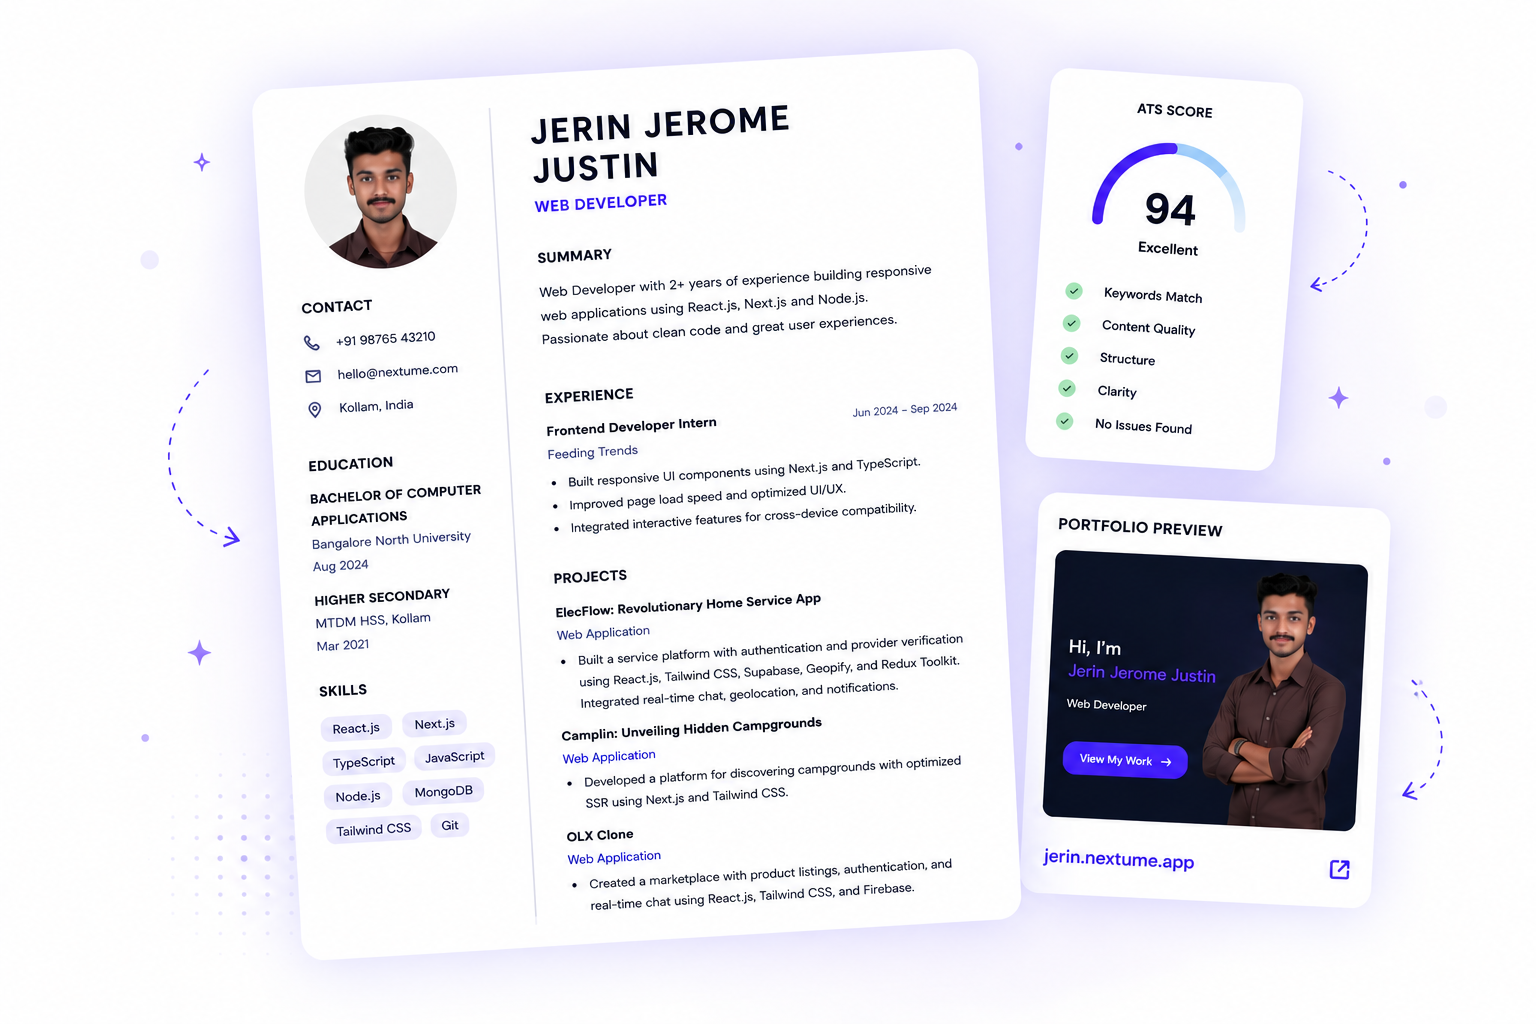
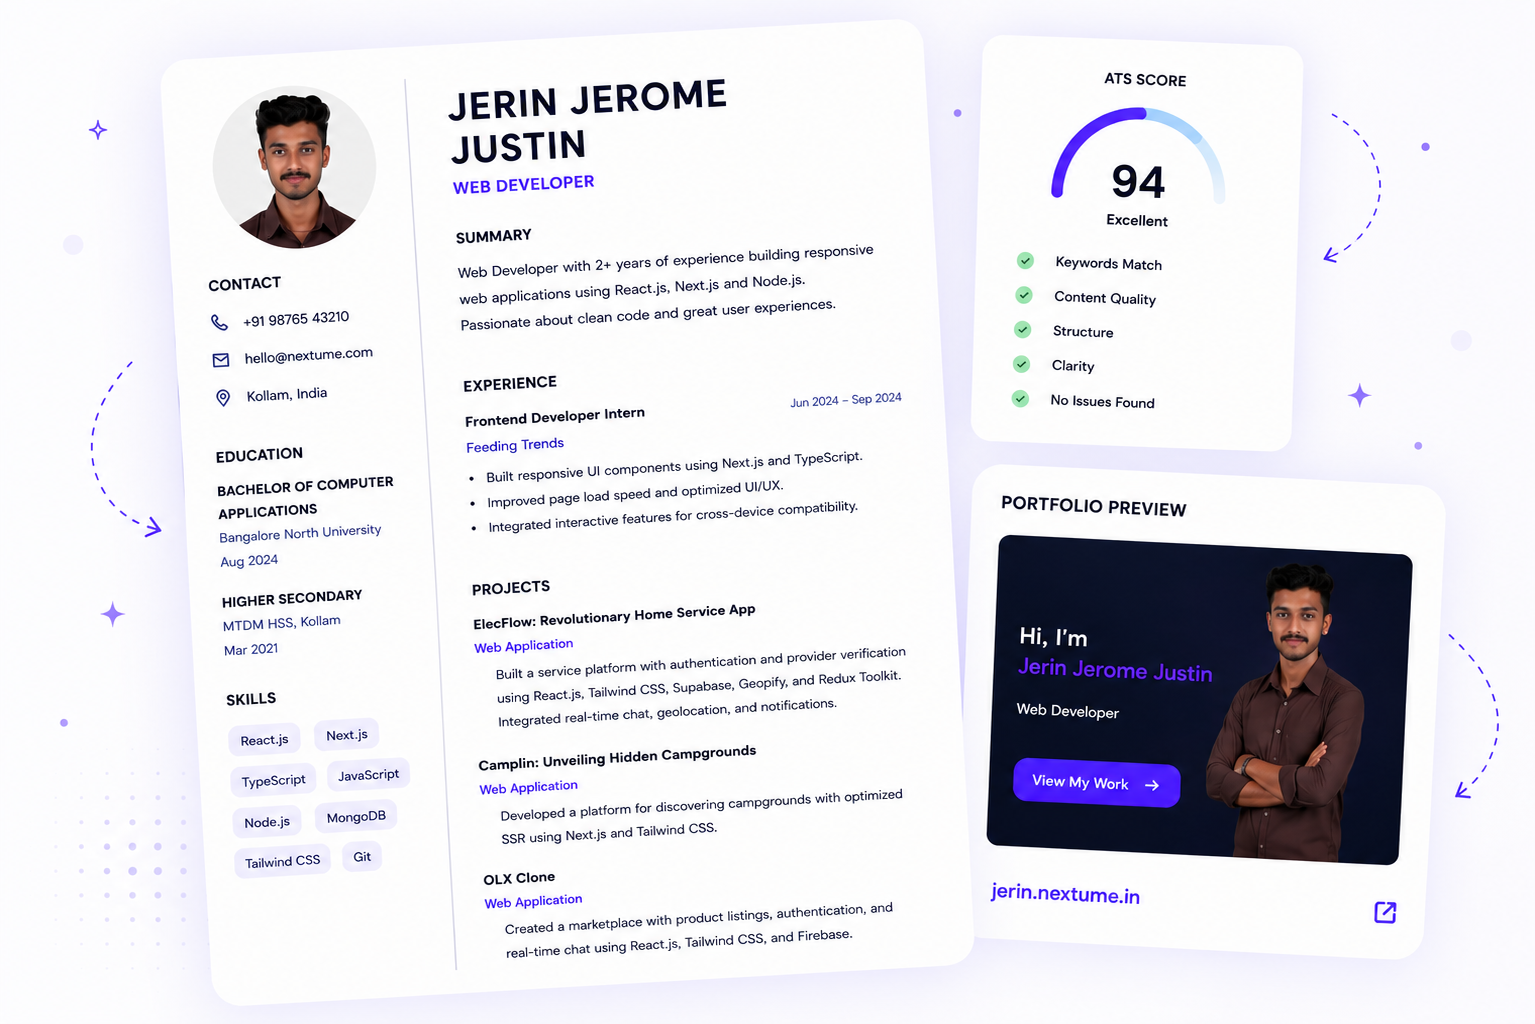
Dev (#25)
* fix(backend): Fixed /me api issue becuse of subdomain in Portfolio modal

* fix(frontend): removed unwanted imports and duplicates

diff --git a/server/src/controllers/ai.controller.ts b/server/src/controllers/ai.controller.ts
@@ -403,8 +403,6 @@ The output will be directly saved as an HTML file and hosted publicly on ${usern
         }
 
         const sanitizedUsername = username
-
-
             .toLowerCase()
             .trim()
             .replace(/\s+/g, "")
@@ -418,13 +416,11 @@ The output will be directly saved as an HTML file and hosted publicly on ${usern
                 update: {
                     html,
                     username: sanitizedUsername,
-                    subdomain: sanitizedUsername,
                     regenCount: user.portfolio ? { increment: 1 } : 0
                 },
                 create: {
                     userId: userId,
                     username: sanitizedUsername,
-                    subdomain: sanitizedUsername,
                     html,
                     regenCount: 0
                 }
@@ -433,7 +429,6 @@ The output will be directly saved as an HTML file and hosted publicly on ${usern
             success: true,
             portfolioId: portfolio.id,
             username: portfolio.username,
-            subdomain: portfolio.subdomain,
             subdomainUrl: `https://${portfolio.username}.nextume.in`,
             url: `/portfolio/${portfolio.username}`
         });
@@ -466,7 +461,6 @@ export const getPortfolio = async (
                     OR: [
                         { id: Number(param) },
                         { username: param.toLowerCase() },
-                        { subdomain: param.toLowerCase() }
                     ]
                 },
                 include: {
@@ -479,7 +473,6 @@ export const getPortfolio = async (
                 where: {
                     OR: [
                         { username: param.toLowerCase() },
-                        { subdomain: param.toLowerCase() }
                     ]
                 },
                 include: {
@@ -498,7 +491,6 @@ export const getPortfolio = async (
             success: true,
             id: portfolio.id,
             username: portfolio.username,
-            subdomain: portfolio.subdomain,
             html: portfolio.html,
             user: portfolio.user
         });

diff --git a/client/app/dashboard/page.tsx b/client/app/dashboard/page.tsx
@@ -11,15 +11,12 @@ import {
   LoaderCircleIcon,
   PencilIcon,
   PlusIcon,
-  ShieldCheckIcon,
   TrashIcon,
   UploadCloudIcon,
   XIcon,
   Globe,
-  ArrowUpRight,
   Calendar,
   Activity,
-  Link as LinkIcon,
   Share2,
   Copy,
   ExternalLink,
@@ -399,7 +396,6 @@ const Dashboard = () => {
                 <div className="space-y-1.5">
                   <div className="flex items-center gap-2">
                     <span className="inline-block text-[10px] uppercase font-bold tracking-wider bg-emerald-100 text-emerald-800 px-2 py-0.5 rounded">
-                      Live Portfolio
                       Live Portfolio
                     </span>
                   </div>

diff --git a/client/assets/allSkills.ts b/client/assets/allSkills.ts
@@ -71,7 +71,6 @@ export const allSkills = [
   { label: "Cypress" },
   { label: "Postman" },
   { label: "APIs" },
-  { label: "Problem Solving" },
   { label: "Collaboration" },
   { label: "Attention to Detail" },
   { label: "Decision Making" },
@@ -95,11 +94,9 @@ export const allSkills = [
   { label: "Documentation" },
   { label: "Problem Diagnosis" },
   { label: "Fast Learner" },
-  { label: "Adaptability" },
   { label: "Empathy" },
   { label: "Organization" },
   { label: "Presentation Skills" },
-  { label: "Leadership" },
   { label: "Patient Care" },
   { label: "Medical Terminology" },
   { label: "Clinical Research" },

diff --git a/client/app/globals.css b/client/app/globals.css
@@ -1,30 +1,3 @@
-/* @import "tailwindcss";
-
-:root {
-  --background: #ffffff;
-  --foreground: #171717;
-}
-
-@theme inline {
-  --color-background: var(--background);
-  --color-foreground: var(--foreground);
-  --font-sans: var(--font-geist-sans);
-  --font-mono: var(--font-geist-mono);
-}
-
-@media (prefers-color-scheme: dark) {
-  :root {
-    --background: #0a0a0a;
-    --foreground: #ededed;
-  }
-}
-
-body {
-  background: var(--background);
-  color: var(--foreground);
-  font-family: Arial, Helvetica, sans-serif;
-} */
-
 @import "tailwindcss";
 
 *{

diff --git a/client/components/home/Features.tsx b/client/components/home/Features.tsx
@@ -120,13 +120,6 @@ const Features = () => {
           </div>
         </div>
       </div>
-      <style>{`
-                @import url('https://fonts.googleapis.com/css2?family=Poppins:ital,wght@0,100;0,200;0,300;0,400;0,500;0,600;0,700;0,800;0,900;1,100;1,200;1,300;1,400;1,500;1,600;1,700;1,800;1,900&display=swap');
-            
-                * {
-                    font-family: 'Poppins', sans-serif;
-                }
-            `}</style>
     </div>
   );
 };

diff --git a/client/app/ats-score/page.tsx b/client/app/ats-score/page.tsx
@@ -7,13 +7,10 @@ import {
     FileText,
     UploadCloud,
     CheckCircle2,
-    AlertTriangle,
-    TrendingUp,
     Sparkles,
     X,
     ArrowLeft,
     Info,
-    Layers,
     Activity,
     FileCheck2,
     Search,
@@ -23,7 +20,6 @@ import {
     Lock,
     History,
     Calendar,
-    LoaderCircle,
 } from "lucide-react";
 import axiosInstance from "@/app/utils/axiosInstance";
 import toast from "react-hot-toast";

diff --git a/client/components/home/Footer.tsx b/client/components/home/Footer.tsx
@@ -123,7 +123,6 @@ const Footer = () => {
               </a>
             </div>
             <p className="mt-3 text-center">© 2026 Nextume.in</p>
-            <p className="mt-3 text-center">© 2026 Nextume.in</p>
           </div>
           <p className="w-full py-3 text-center text-sm text-gray-500">
             Made with <span className="text-red-500">❤</span> by{" "}

diff --git a/client/app/dashboard/builder/[resumeId]/page.tsx b/client/app/dashboard/builder/[resumeId]/page.tsx
@@ -109,7 +109,6 @@ const ResumeBuilder = () => {
         JSON.stringify({ public: !resumeData.public }),
       );
       const { data } = await axiosInstance.put(`/resumes/update`, formData);
-      console.log("dataa", data);
       setResumeData({ ...resumeData, public: !resumeData.public });
       toast.success(data.message);
     } catch (error: any) {

diff --git a/client/app/view/[resumeId]/page.tsx b/client/app/view/[resumeId]/page.tsx
@@ -3,7 +3,6 @@ import { useEffect, useState } from "react";
 import { ArrowLeftIcon, Loader } from "lucide-react";
 import { useParams } from "next/navigation";
 import Link from "next/link";
-import { dummyResumeData } from "@/assets/assets";
 import ResumePreview from "@/components/ResumePreview";
 import axiosInstance from "@/app/utils/axiosInstance";
 

diff --git a/client/app/support/page.tsx b/client/app/support/page.tsx
@@ -5,18 +5,12 @@ import Link from "next/link";
 import { useSelector } from "react-redux";
 import { RootState } from "@/lib/redux/store";
 import {
-  HelpCircle,
   Search,
   MessageSquare,
   Mail,
-  FileText,
-  Sparkles,
   ArrowLeft,
   ChevronDown,
   ChevronUp,
-  CheckCircle2,
-  AlertCircle,
-  Zap,
   ShieldCheck,
   Send,
   LifeBuoy,

diff --git a/client/app/cover-letter/page.tsx b/client/app/cover-letter/page.tsx
@@ -22,7 +22,6 @@ import {
   RefreshCw,
   AlertTriangle,
   AlertCircle,
-  FileSpreadsheet,
   Building,
   Briefcase,
   UserCheck,
@@ -33,7 +32,6 @@ import {
   ChevronRight,
   ChevronLeft,
   Save,
-  HelpCircle,
   PencilIcon,
 } from "lucide-react";
 import axiosInstance from "@/app/utils/axiosInstance";

diff --git a/server/src/controllers/user.controller.ts b/server/src/controllers/user.controller.ts
@@ -128,7 +128,6 @@ export const loginUser = async (req: Request, res: Response) => {
 export const getUserById = async (req: Request, res: Response) => {
   try {
     const userId = (req as any).userId;
-
     const user = await prisma.user.findUnique({
       where: { id: userId },
       include: {
